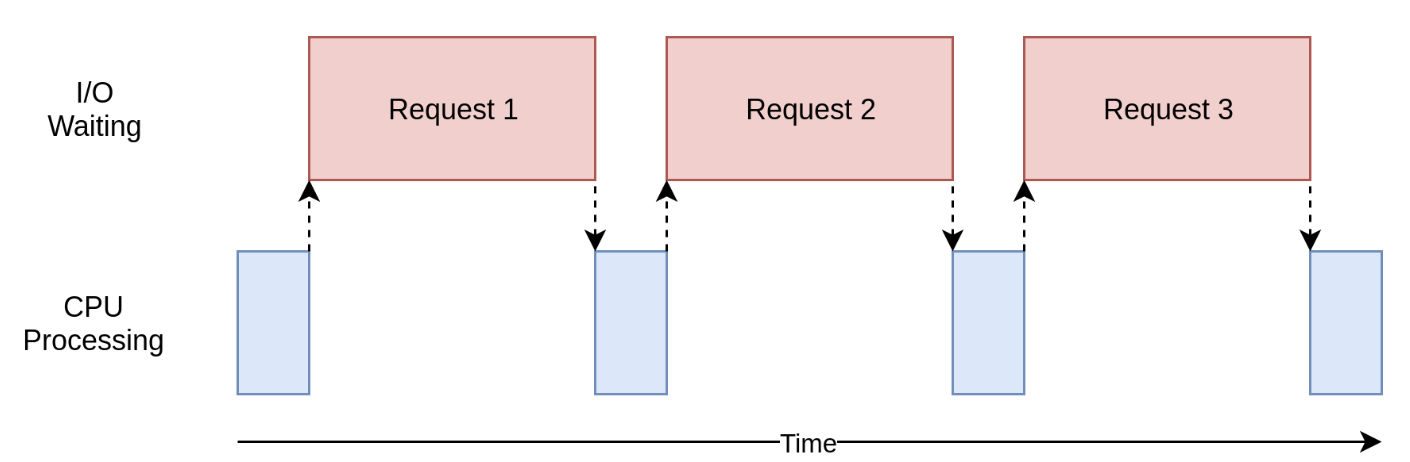
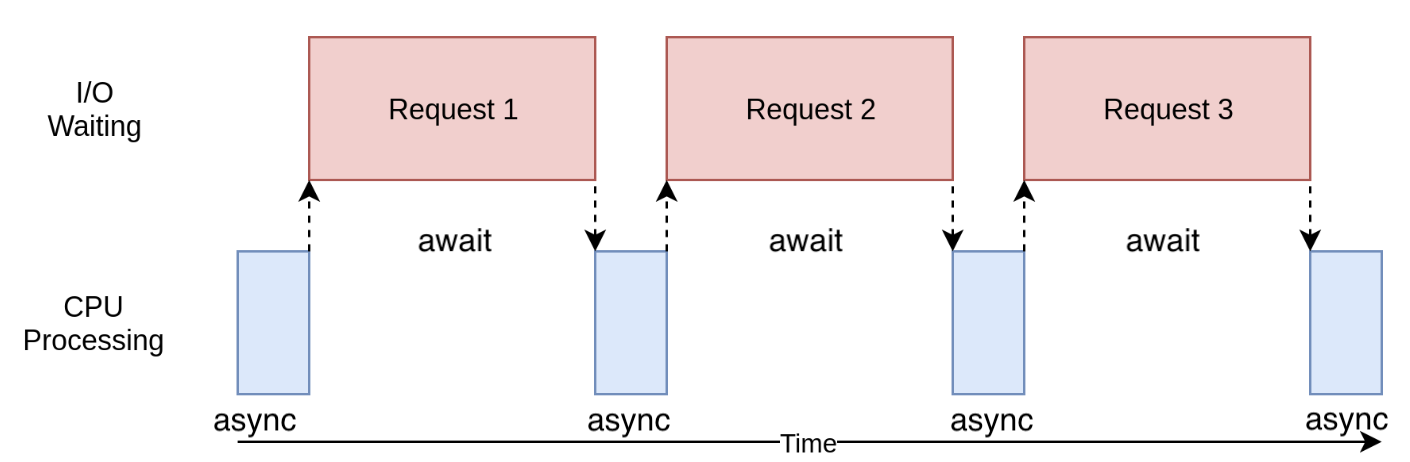
Update

diff --git a/code/io.py b/code/io.py
@@ -1,0 +1,30 @@
+import time
+from concurrent.futures.process import ProcessPoolExecutor
+from concurrent.futures.thread import ThreadPoolExecutor
+
+import requests
+
+
+def get_link(url):
+    requests.get(url).status_code
+
+
+links = ["https://apple.com"] * 100
+
+# start_time = time.time()
+# [get_link(i) for i in links]
+# duration = time.time() - start_time
+# print(f"Sync Duration: {duration} seconds")
+
+start_time = time.time()
+with ProcessPoolExecutor() as pool:
+    list(pool.map(get_link, links))
+duration = time.time() - start_time
+print(f"Process pool Duration: {duration} seconds")
+
+start_time = time.time()
+with ThreadPoolExecutor() as pool:
+    list(pool.map(get_link, links))
+
+duration = time.time() - start_time
+print(f"Thread pool Duration: {duration} seconds")

diff --git a/presentation/1_concepts.md b/presentation/1_concepts.md
@@ -21,7 +21,7 @@ I/O-bound problems cause your program to slow down because it frequently must wa
 
 They arise frequently when your program is working with things that are much slower than your CPU.
 
-[io_bound]: ./io_bound.png
+[io_bound]: io_bound.jpg
 ![alt text][io_bound]
 
 
@@ -37,7 +37,7 @@ These are the CPU-bound programs, because the resource limiting the speed of you
 
     
 ## Process vs Threads
-###Process
+### Process
 - Created by the operating system to run programs
 - Process can have multiple threads
 - Two processes can execute code simultaneously in the same python program
@@ -53,14 +53,17 @@ These are the CPU-bound programs, because the resource limiting the speed of you
 ![alt text][python_concurrency]
 
 Python supports concurrency with the following packages:
-- multiprocessing
-  - Swapns multiple process.
-  - Best suited for CPU intensive workloads.
 - threading
   - achieves concurrency using threads.
-  - GIL prevents multiple threads executing python bytecode at once. [Code](../code/factorial.py)
+  - GIL (Global Interpreter Lock) prevents multiple threads executing python bytecode at once. 
   - however, and libraries like Numpy bypass GIL limitation by running external code in C.
   - So best suited for I/O workloads.
+- multiprocessing
+  - Swapns multiple process.
+  - Best suited for CPU intensive workloads. 
 - asyncio
 
-[Next](./asyncio.md)
+[CPU-Bound Code](../code/factorial.py)
+[IO-Bound Code](../code/io.py)
+
+[Next](2_asyncio.md)

diff --git a/presentation/2_asyncio.md b/presentation/2_asyncio.md
@@ -1,16 +1,12 @@
 asyncio is a **cooperative concurrency framework** was written to address the need for fast **single-threaded** programs that don't waste CPU time on I/O bound tasks.
 
-Runs in a single thread, single process.
-
 Rapid development from 3.4 to 3.7. (make sure you see the latest version documentation and tutorials)
 
-## Coroutines with async/await
-
-- Coroutines are a kind of concurrent programming that works collaboratively. 
-- async Coroutines are cooperative unlike python threads which are preemptive.
+- Coroutines are cooperative unlike python threads which are preemptive.
 - Each coroutine is a line of execution that can suspend its control of the program to allow another coroutine to run. 
-- This is particularly useful when a coroutine is waiting for something like a network request to complete.
 
+## async/await
+- async/await is python's api interface to define coroutines. asyncio is the framework which uses those definitions to provide a concurrency.
 
 ```python
 import asyncio
@@ -26,7 +22,7 @@ asyncio.run(main())
 ```
 [Code](../code/coroutines.py)
 
-[io_bound]: ./io_bound.png
+[io_bound]: io_bound_async.png
 ![alt text][io_bound]
 
 - `async def` will make the function a coroutine.
@@ -189,4 +185,4 @@ return_when indicates when this function should return. It must be one of the fo
 
 [Code](../code/executor.py)
 
-[Next](./sync_primitives.md)
+[Next](3_sync_primitives.md)

diff --git a/presentation/3_sync_primitives.md b/presentation/3_sync_primitives.md
@@ -1,3 +1,5 @@
+## Synchronisation Primitives
+
 Source: https://docs.python.org/3/library/asyncio-sync.html
 
 - asyncio synchronization primitives are designed to be similar to those of the threading module with two important caveats:
@@ -13,4 +15,12 @@ asyncio has the following basic synchronization primitives:
 - Semaphore
 - BoundedSemaphore
 
-[Next](./what_next.md)
+## Subprocesses
+
+Source: https://docs.python.org/3/library/asyncio-subprocess.html
+
+## Queues to distribute tasks
+
+Source: https://docs.python.org/3/library/asyncio-queue.html
+
+[Next](4_what_next.md)
